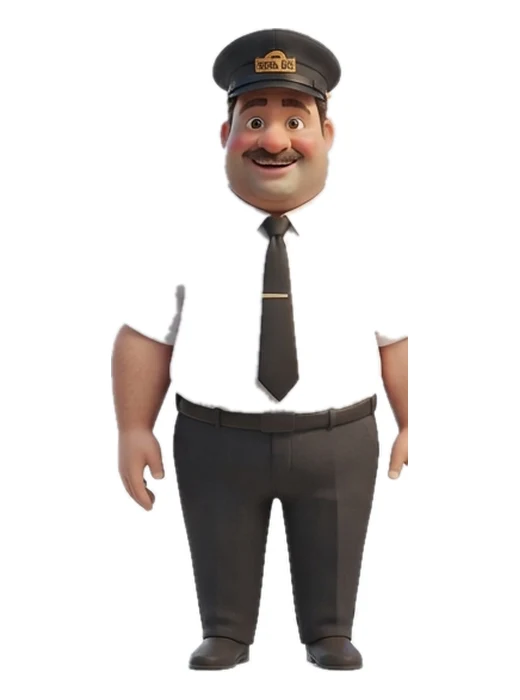
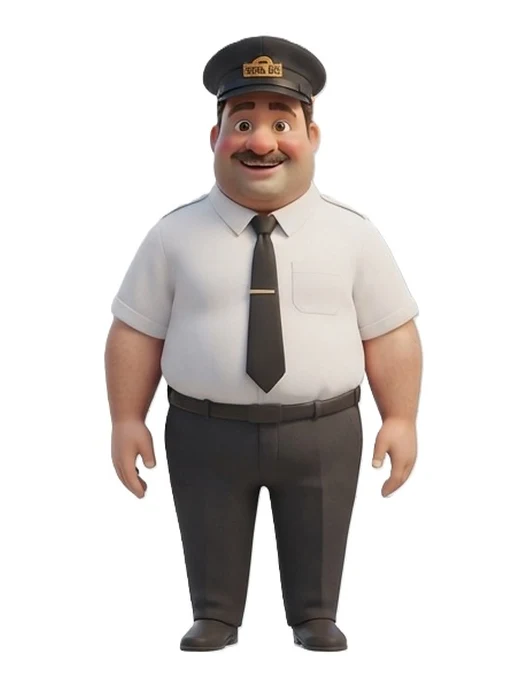
Website: updated pictures for all characters except Mama and Dadi
Claude-Session: https://claude.ai/code/session_01GgcymjaMS6vVXG87TSpXFJ

Changed region(s): [[0.1846, 0.03, 0.8308, 0.96], [0.6154, 0.66, 0.6462, 0.72]]

diff --git a/index.html b/index.html
@@ -249,19 +249,19 @@
       <h2>Meet the Family and Friends</h2>
       <p class="section-lede">Hamad, Alayna, their family, the bus driver and their friends.</p>
       <div class="cast-grid">
-        <figure class="person"><img src="people/hamad.webp?v=c2" alt="Boy in a red and white striped T-shirt and denim shorts" width="260" height="700" loading="lazy"><figcaption>Hamad<small>Brother</small></figcaption></figure>
-        <figure class="person"><img src="people/alayna.webp?v=c2" alt="Girl in a pink floral dress with pigtails and yellow bows" width="260" height="700" loading="lazy"><figcaption>Alayna<small>Sister</small></figcaption></figure>
-        <figure class="person"><img src="people/baba.webp?v=c2" alt="Man in a light-blue shirt and beige trousers" width="260" height="700" loading="lazy"><figcaption>Baba<small>Dad</small></figcaption></figure>
-        <figure class="person"><img src="people/mama.webp?v=c2" alt="Woman in a teal salwar kameez with a dupatta" width="260" height="700" loading="lazy"><figcaption>Mama<small>Mom</small></figcaption></figure>
-        <figure class="person"><img src="people/dada.webp?v=c2" alt="Old man with a white beard in a grey waistcoat and white kurta" width="260" height="700" loading="lazy"><figcaption>Dada<small>Grandfather</small></figcaption></figure>
-        <figure class="person"><img src="people/dadi.webp?v=c2" alt="Grandmother with grey hair in a lilac kameez" width="260" height="700" loading="lazy"><figcaption>Dadi<small>Grandmother</small></figcaption></figure>
-        <figure class="person"><img src="people/nana.webp?v=c2" alt="Grandfather with grey hair, glasses, a navy vest and cream kurta" width="260" height="700" loading="lazy"><figcaption>Nana<small>Grandfather</small></figcaption></figure>
-        <figure class="person"><img src="people/nani.webp?v=c2" alt="Grandmother with grey hair in a mustard kurta and teal dupatta" width="260" height="700" loading="lazy"><figcaption>Nani<small>Grandmother</small></figcaption></figure>
-        <figure class="person"><img src="people/driver.webp?v=c2" alt="Bus driver in a white shirt, black tie and cap" width="260" height="700" loading="lazy"><figcaption>Bus driver<small>Driver</small></figcaption></figure>
-        <figure class="person"><img src="people/zoya.webp?v=c2" alt="Girl with braids in a yellow dress, holding a butterfly" width="260" height="700" loading="lazy"><figcaption>Zoya<small>Friend</small></figcaption></figure>
-        <figure class="person"><img src="people/bilal.webp?v=c2" alt="Boy with curly hair in an orange polo, holding a red ball" width="260" height="700" loading="lazy"><figcaption>Bilal<small>Friend</small></figcaption></figure>
-        <figure class="person"><img src="people/sara.webp?v=c2" alt="Girl in a pink tunic and white hijab, waving" width="260" height="700" loading="lazy"><figcaption>Sara<small>Friend</small></figcaption></figure>
-        <figure class="person"><img src="people/zain.webp?v=c2" alt="Boy with spiky black hair in a green shirt and denim overalls" width="260" height="700" loading="lazy"><figcaption>Zain<small>Friend</small></figcaption></figure>
+        <figure class="person"><img src="people/hamad.webp?v=c3" alt="Boy in a red and white striped T-shirt and denim shorts" width="260" height="700" loading="lazy"><figcaption>Hamad<small>Brother</small></figcaption></figure>
+        <figure class="person"><img src="people/alayna.webp?v=c3" alt="Girl in a pink floral dress with pigtails and yellow bows" width="260" height="700" loading="lazy"><figcaption>Alayna<small>Sister</small></figcaption></figure>
+        <figure class="person"><img src="people/baba.webp?v=c3" alt="Man in a light-blue shirt and beige trousers" width="260" height="700" loading="lazy"><figcaption>Baba<small>Dad</small></figcaption></figure>
+        <figure class="person"><img src="people/mama.webp?v=c3" alt="Woman in a teal salwar kameez with a dupatta" width="260" height="700" loading="lazy"><figcaption>Mama<small>Mom</small></figcaption></figure>
+        <figure class="person"><img src="people/dada.webp?v=c3" alt="Old man with a white beard in a grey waistcoat and white kurta" width="260" height="700" loading="lazy"><figcaption>Dada<small>Grandfather</small></figcaption></figure>
+        <figure class="person"><img src="people/dadi.webp?v=c3" alt="Grandmother with grey hair in a lilac kameez" width="260" height="700" loading="lazy"><figcaption>Dadi<small>Grandmother</small></figcaption></figure>
+        <figure class="person"><img src="people/nana.webp?v=c3" alt="Grandfather with grey hair, glasses, a navy vest and cream kurta" width="260" height="700" loading="lazy"><figcaption>Nana<small>Grandfather</small></figcaption></figure>
+        <figure class="person"><img src="people/nani.webp?v=c3" alt="Grandmother with grey hair in a mustard kurta and teal dupatta" width="260" height="700" loading="lazy"><figcaption>Nani<small>Grandmother</small></figcaption></figure>
+        <figure class="person"><img src="people/driver.webp?v=c3" alt="Bus driver in a white shirt, black tie and cap" width="260" height="700" loading="lazy"><figcaption>Bus driver<small>Driver</small></figcaption></figure>
+        <figure class="person"><img src="people/zoya.webp?v=c3" alt="Girl with braids in a yellow dress, holding a butterfly" width="260" height="700" loading="lazy"><figcaption>Zoya<small>Friend</small></figcaption></figure>
+        <figure class="person"><img src="people/bilal.webp?v=c3" alt="Boy with curly hair in an orange polo, holding a red ball" width="260" height="700" loading="lazy"><figcaption>Bilal<small>Friend</small></figcaption></figure>
+        <figure class="person"><img src="people/sara.webp?v=c3" alt="Girl in a pink tunic and white hijab, waving" width="260" height="700" loading="lazy"><figcaption>Sara<small>Friend</small></figcaption></figure>
+        <figure class="person"><img src="people/zain.webp?v=c3" alt="Boy with spiky black hair in a green shirt and denim overalls" width="260" height="700" loading="lazy"><figcaption>Zain<small>Friend</small></figcaption></figure>
       </div>
     </div>
   </section>
